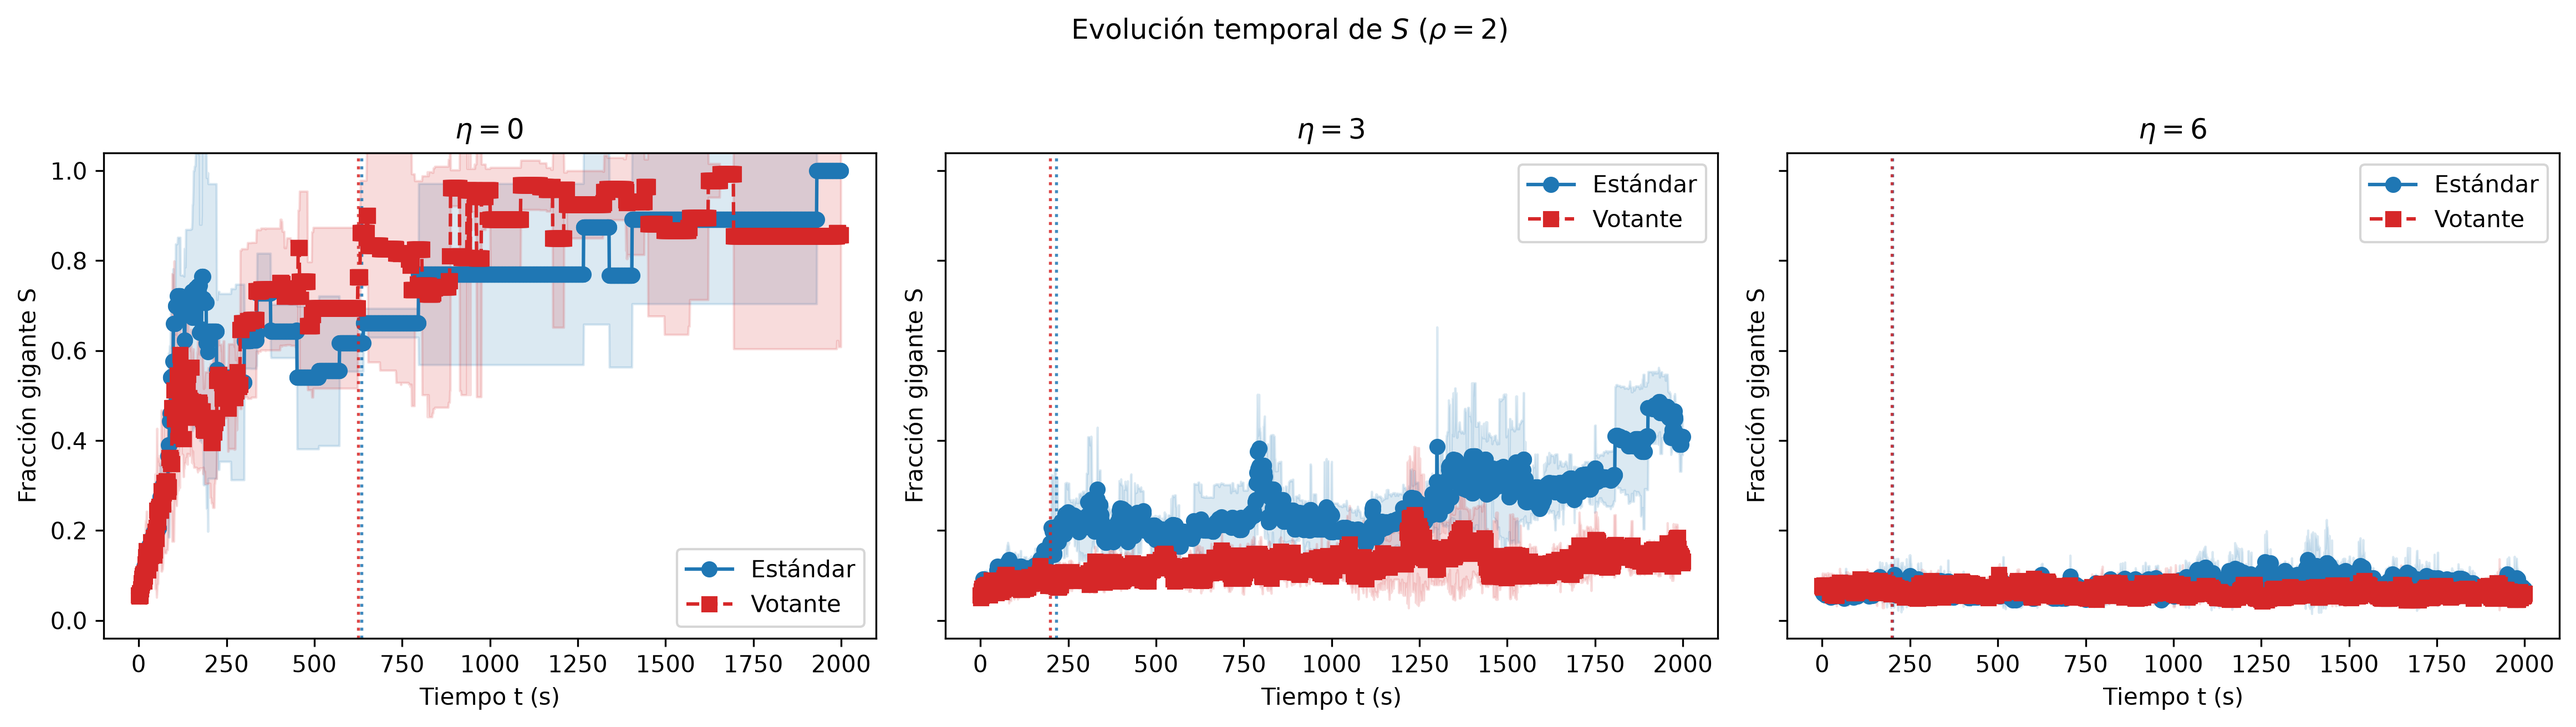
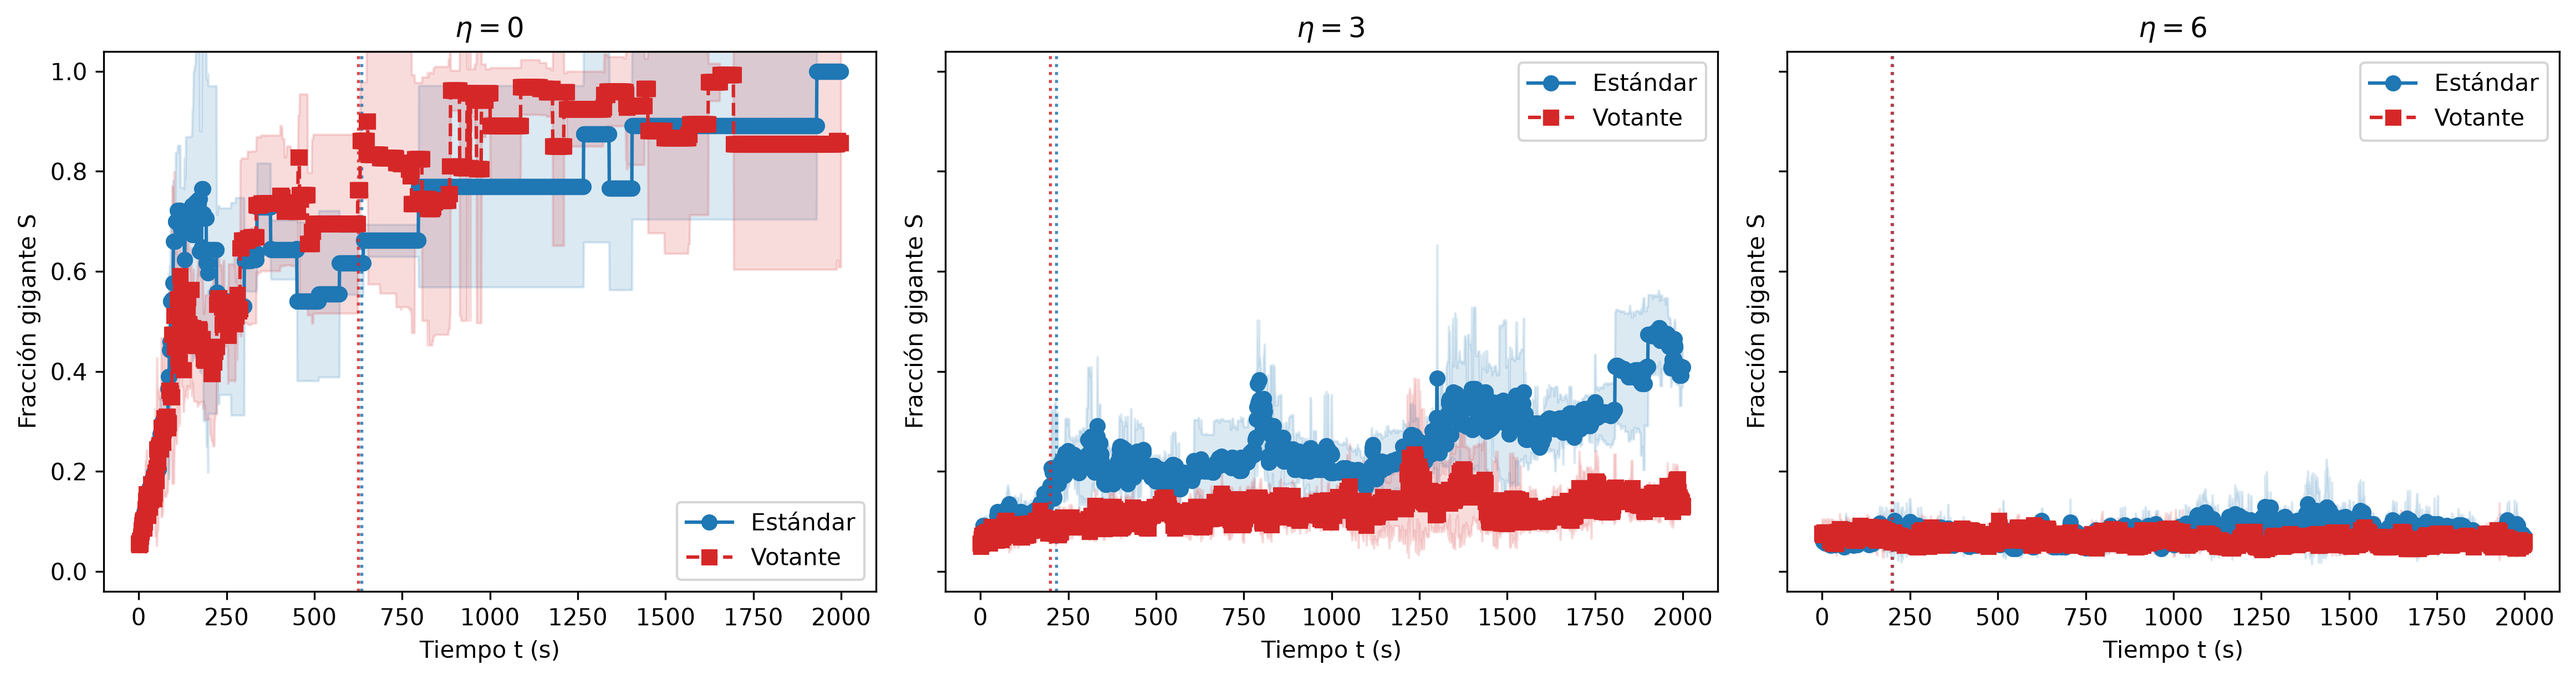
No titles

diff --git a/visualizer/src/visualizer/sweep/plot_polarization_vs_cluster_ratio.py b/visualizer/src/visualizer/sweep/plot_polarization_vs_cluster_ratio.py
@@ -12,7 +12,13 @@ from .telemetry import TelemetryBundle
 
 
 def generate(bundle: TelemetryBundle, output_dir: Path, image_format: str, dpi: int) -> list[Path]:
-    densities = sorted(bundle.steady_summary["density"].unique())
+    # Filtrar densidades excluyendo rho=0.4 y rho=0.16
+    raw_densities = bundle.steady_summary["density"].unique()
+    densities = sorted(
+        d for d in raw_densities 
+        if not (np.isclose(d, 0.4) or np.isclose(d, 0.16))
+    )
+
     figure, axes = plt.subplots(
         1, len(densities), figsize=(5.2 * len(densities), 4.4), sharex=True, sharey=True, squeeze=False
     )
@@ -41,12 +47,11 @@ def generate(bundle: TelemetryBundle, output_dir: Path, image_format: str, dpi: 
             )
         axis.set_title(f"$\\rho={number_label(density)}$")
         axis.set_xlabel("Fracción gigante estacionaria S")
-        # axis.grid(True, alpha=0.28)
         axis.legend(fontsize=8)
 
     axes.flat[0].set_ylabel("Polarización estacionaria va")
     axes.flat[0].set_xlim(-0.04, 1.04)
     axes.flat[0].set_ylim(-0.04, 1.04)
-    figure.suptitle("Polarización en función de la componente gigante", y=1.03)
+    # figure.suptitle("Polarización en función de la componente gigante", y=1.03)
     figure.tight_layout()
     return [save_figure(figure, output_dir, "polarizacion_vs_cluster_ratio", image_format, dpi)]

diff --git a/visualizer/src/visualizer/sweep/plot_polarization_vs_eta.py b/visualizer/src/visualizer/sweep/plot_polarization_vs_eta.py
@@ -12,7 +12,13 @@ from .telemetry import TelemetryBundle
 
 
 def generate(bundle: TelemetryBundle, output_dir: Path, image_format: str, dpi: int) -> list[Path]:
-    densities = sorted(bundle.steady_summary["density"].unique())
+    # Filtrar densidades excluyendo rho=0.4 y rho=0.16
+    raw_densities = bundle.steady_summary["density"].unique()
+    densities = sorted(
+        d for d in raw_densities 
+        if not (np.isclose(d, 0.4) or np.isclose(d, 0.16))
+    )
+
     figure, axes = plt.subplots(
         1, len(densities), figsize=(5.2 * len(densities), 4.4), sharey=True, squeeze=False
     )
@@ -36,11 +42,10 @@ def generate(bundle: TelemetryBundle, output_dir: Path, image_format: str, dpi: 
             )
         axis.set_title(f"$\\rho={number_label(density)}$")
         axis.set_xlabel("Ruido eta")
-        # axis.grid(True, alpha=0.28)
         axis.legend(fontsize=8)
 
     axes.flat[0].set_ylabel("Polarización estacionaria media va")
     axes.flat[0].set_ylim(-0.04, 1.04)
-    figure.suptitle("Polarización estacionaria en función del ruido", y=1.03)
+    # figure.suptitle("Polarización estacionaria en función del ruido", y=1.03)
     figure.tight_layout()
     return [save_figure(figure, output_dir, "polarizacion_vs_eta", image_format, dpi)]

diff --git a/visualizer/src/visualizer/sweep/plot_cluster_ratio_vs_eta.py b/visualizer/src/visualizer/sweep/plot_cluster_ratio_vs_eta.py
@@ -12,7 +12,13 @@ from .telemetry import TelemetryBundle
 
 
 def generate(bundle: TelemetryBundle, output_dir: Path, image_format: str, dpi: int) -> list[Path]:
-    densities = sorted(bundle.steady_summary["density"].unique())
+    # Filtrar densidades excluyendo rho=0.4 y rho=0.16
+    raw_densities = bundle.steady_summary["density"].unique()
+    densities = sorted(
+        d for d in raw_densities 
+        if not (np.isclose(d, 0.4) or np.isclose(d, 0.16))
+    )
+
     figure, axes = plt.subplots(
         1, len(densities), figsize=(5.2 * len(densities), 4.4), sharey=True, squeeze=False
     )
@@ -49,7 +55,7 @@ def generate(bundle: TelemetryBundle, output_dir: Path, image_format: str, dpi: 
 
     axes.flat[0].set_ylabel("Fracción gigante estacionaria media S")
     axes.flat[0].set_ylim(-0.04, 1.04)
-    figure.suptitle("Componente gigante estacionaria en función del ruido", y=1.03)
+    # figure.suptitle("Componente gigante estacionaria en función del ruido", y=1.03)
     figure.tight_layout()
     
     return [save_figure(figure, output_dir, "cluster_ratio_vs_eta", image_format, dpi)]

diff --git a/visualizer/src/visualizer/sweep/plot_temporal_polarization.py b/visualizer/src/visualizer/sweep/plot_temporal_polarization.py
@@ -77,9 +77,9 @@ def generate(
             set_fraction_axis(axis, "Polarización va")
             axis.legend(fontsize=8)
 
-        figure.suptitle(
-            f"Evolución temporal de la polarización ($\\rho={number_label(density)}$)", y=1.03
-        )
+        # figure.suptitle(
+        #     f"Evolución temporal de la polarización ($\\rho={number_label(density)}$)", y=1.03
+        # )
         figure.tight_layout()
         created.append(
             save_figure(

diff --git a/visualizer/src/visualizer/sweep/plot_temporal_cluster_ratio.py b/visualizer/src/visualizer/sweep/plot_temporal_cluster_ratio.py
@@ -88,10 +88,10 @@ def generate(
             set_fraction_axis(axis, "Fracción gigante S")
             axis.legend(loc="best")
 
-        figure.suptitle(
-            f"Evolución temporal de $S$ ($\\rho={number_label(density)}$)",
-            y=1.03,
-        )
+        # figure.suptitle(
+        #     f"Evolución temporal de $S$ ($\\rho={number_label(density)}$)",
+        #     y=1.03,
+        # )
         figure.tight_layout()
         
         created.append(

diff --git a/visualizer/src/visualizer/sweep/plot_execution_times.py b/visualizer/src/visualizer/sweep/plot_execution_times.py
@@ -69,7 +69,7 @@ def _plot_model_timings(
 
     axis.set_xlabel("Paso (step)")
     axis.set_ylabel("Tiempo de ejecución (ms)")
-    axis.set_title(f"Tiempo de ejecución del CIM por paso ({model_name.capitalize()})")
+    # axis.set_title(f"Tiempo de ejecución del CIM por paso ({model_name.capitalize()})")
     axis.legend(fontsize=8, loc="upper right")
     figure.tight_layout()
 
